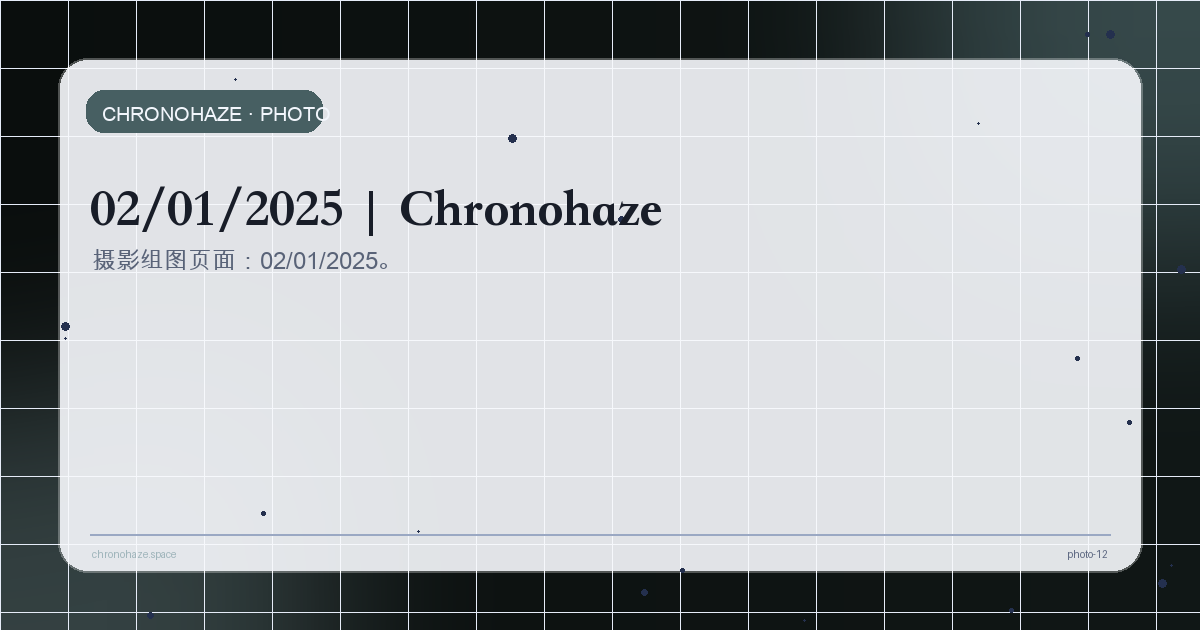
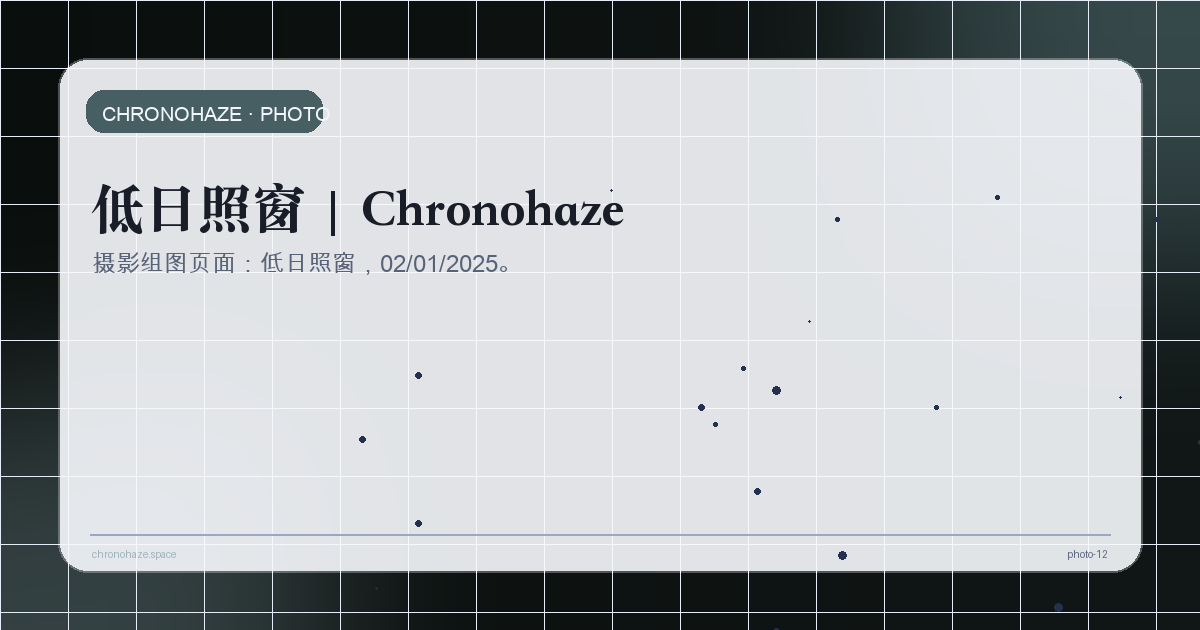
Update January 2025 Edinburgh photo series

Changed region(s): [[0.0617, 0.2714, 0.555, 0.4524]]

diff --git a/photo/photo-12.html b/photo/photo-12.html
@@ -139,17 +139,17 @@
   </script>
   <link rel="icon" type="image/x-icon" href="https://lyuf09.github.io/chronohaze/assets/favicon.ico?v=4" />
   <link rel="apple-touch-icon" href="https://lyuf09.github.io/chronohaze/assets/apple-touch-icon.png?v=4" />
-  <title>02/01/2025 | 摄影 | Chronohaze</title>
-  <meta name="description" content="摄影组图页面：02/01/2025。" />
+  <title>低日照窗 | 摄影 | Chronohaze</title>
+  <meta name="description" content="摄影组图页面：低日照窗，02/01/2025。" />
   <meta property="og:type" content="article" />
   <meta property="og:site_name" content="Chronohaze" />
-  <meta property="og:title" content="02/01/2025 | Chronohaze" />
-  <meta property="og:description" content="摄影组图页面：02/01/2025。" />
+  <meta property="og:title" content="低日照窗 | Chronohaze" />
+  <meta property="og:description" content="摄影组图页面：低日照窗，02/01/2025。" />
   <meta property="og:url" content="https://lyuf09.github.io/chronohaze/photo/photo-12.html" />
   <meta property="og:image" content="https://lyuf09.github.io/chronohaze/assets/og/site/photo-12.png" />
   <meta name="twitter:card" content="summary_large_image" />
-  <meta name="twitter:title" content="02/01/2025 | Chronohaze" />
-  <meta name="twitter:description" content="摄影组图页面：02/01/2025。" />
+  <meta name="twitter:title" content="低日照窗 | Chronohaze" />
+  <meta name="twitter:description" content="摄影组图页面：低日照窗，02/01/2025。" />
   <meta name="twitter:image" content="https://lyuf09.github.io/chronohaze/assets/og/site/photo-12.png" />
   <link rel="canonical" href="https://lyuf09.github.io/chronohaze/photo/photo-12.html" />
 
@@ -221,8 +221,20 @@
 
     <main class="main">
       <article class="article photo-detail-article">
-        <h1>02/01/2025</h1>
+        <h1 data-copy-en="Low Sun at the Window" data-copy-zh="低日照窗">低日照窗</h1>
         <p class="article-meta">英国爱丁堡 · 2025年</p>
+        <section class="photo-detail-statement" aria-label="Series statement">
+          <div data-lang-block="zh">
+            <p>这组照片拍摄于大二圣诞假期。我一个人待在爱丁堡的公寓里，很多天几乎没有出门，只是在房间里做自己的事情，偶尔从窗边看见冬天很短的日落。</p>
+            <p>这些画面都来自同一个生活半径。窗户、楼体、树枝、远处的天空，还有一小段很快消失的金色光线。它们像假期里被困在室内时，日子偶然露出的边缘。</p>
+            <p>冬天的太阳来得很低，也走得很快。它没有真正照亮什么，只是在房间外面停留了一会儿。“即使没有出门，时间也仍然在慢慢经过。” 这样提醒着我</p>
+          </div>
+          <div data-lang-block="en">
+            <p>This series was made during my second-year Christmas break, when I spent most days alone in my apartment in Edinburgh. I barely went outside, staying in my room and doing my own things, occasionally catching the small winter sunset from the window.</p>
+            <p>All of these images come from the same narrow radius of living: windows, buildings, bare branches, distant sky, and a brief strip of golden light. They are not records of an outing, but quiet traces of the outside world reaching the edge of an indoor holiday.</p>
+            <p>The winter sun arrives low and leaves quickly. It does not really illuminate the room; it only pauses outside for a moment, as if to remind me that time is still passing, even when I have not gone anywhere.</p>
+          </div>
+        </section>
         <div class="photo-detail-gallery">
           <figure class="photo-detail-item"><img src="../assets/images/wix/64569d_454a21afe61843aca2fb15da42e5d073~mv2.jpg" alt="02/01/2025 photograph 1 — 英国爱丁堡 · 2025年" loading="lazy" /></figure><figure class="photo-detail-item"><img src="../assets/images/wix/64569d_37933959d3fc411ea21bc48ee1dc69e8~mv2.jpg" alt="02/01/2025 photograph 2 — 英国爱丁堡 · 2025年" loading="lazy" /></figure><figure class="photo-detail-item"><img src="../assets/images/wix/64569d_a83de330373943b0a961d11acc073e4a~mv2.jpg" alt="02/01/2025 photograph 3 — 英国爱丁堡 · 2025年" loading="lazy" /></figure><figure class="photo-detail-item"><img src="../assets/images/wix/64569d_a65334ca897744acbd009b828f85b121~mv2.png" alt="02/01/2025 photograph 4 — 英国爱丁堡 · 2025年" loading="lazy" /></figure>
         </div>

diff --git a/search.html b/search.html
@@ -560,7 +560,7 @@
       "content": "05/04/2025 - Memories of you 英国爱丁堡 · 2025年 返回摄影栏目"
     },
     {
-      "title": "雪的边界",
+      "title": "低日照窗",
       "url": "photo/photo-12.html",
       "section": "Photography",
       "date": "02/01/2025",
@@ -570,7 +570,7 @@
       ],
       "sort": 20250101,
       "scope": "photo",
-      "content": "chronohaze.space 主页 数学 摄影 音乐 CV 02/01/2025 英国爱丁堡 · 2025年 返回摄影栏目 chronohaze.space 辗转不同国家无固定号码 请联系邮箱： moc.duolci@035reief 重庆 · Edinburgh · New York © 2026 by chronohaze.space. Powered and secured by GitHub Pages. LinkedIn Instagram Bilibili GitHub 网站说明 无障碍支持"
+      "content": "chronohaze.space 主页 数学 摄影 音乐 CV 低日照窗 Low Sun at the Window 02/01/2025 英国爱丁堡 · 2025年 大二圣诞假期 爱丁堡公寓 房间 窗边 冬天短日落 窗户 楼体 树枝 远处天空 金色光线 室内假期 时间经过 返回摄影栏目 chronohaze.space"
     },
     {
       "title": "Affizieren",

diff --git a/photography.html b/photography.html
@@ -312,7 +312,7 @@
 <img alt="摄影系列预览图：02/01/2025 — 英国爱丁堡 · 2025年" decoding="async" height="2557" loading="lazy" sizes="(max-width: 640px) 92vw, (max-width: 980px) 46vw, 29vw" src="assets/images/wix/64569d_454a21afe61843aca2fb15da42e5d073~mv2-960.webp" width="1704"/>
 </picture>
 <div class="photo-meta">
-<p class="photo-title" data-copy-en="Snow Margin" data-copy-zh="雪的边界">雪的边界</p>
+<p class="photo-title" data-copy-en="Low Sun at the Window" data-copy-zh="低日照窗">低日照窗</p>
 <p class="photo-date" data-copy-en="02/01/2025" data-copy-zh="02/01/2025">02/01/2025</p>
 <p class="photo-subtitle" data-copy-en="Read More" data-copy-zh="阅读全文">阅读全文</p>
 </div>
